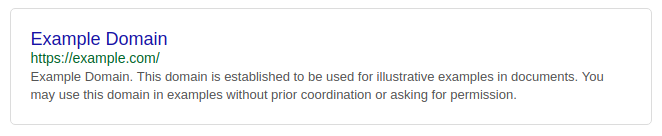
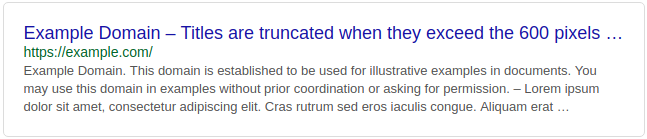
Update README

Changed region(s): [[0.0, 0.0294, 1.0, 0.9706], [0.0, 0.9706, 0.9892, 1.0], [0.0, 0.0, 0.9892, 0.0294]]

diff --git a/README.md b/README.md
@@ -5,6 +5,9 @@ Visualise how your website will appear in the Google search results.
 
 ![Preview](preview.png)
 
+- Same look as Google search results
+- Titles are truncated at 600 pixels
+- Description is truncated around 300 characters
 
 ## Installation
 
